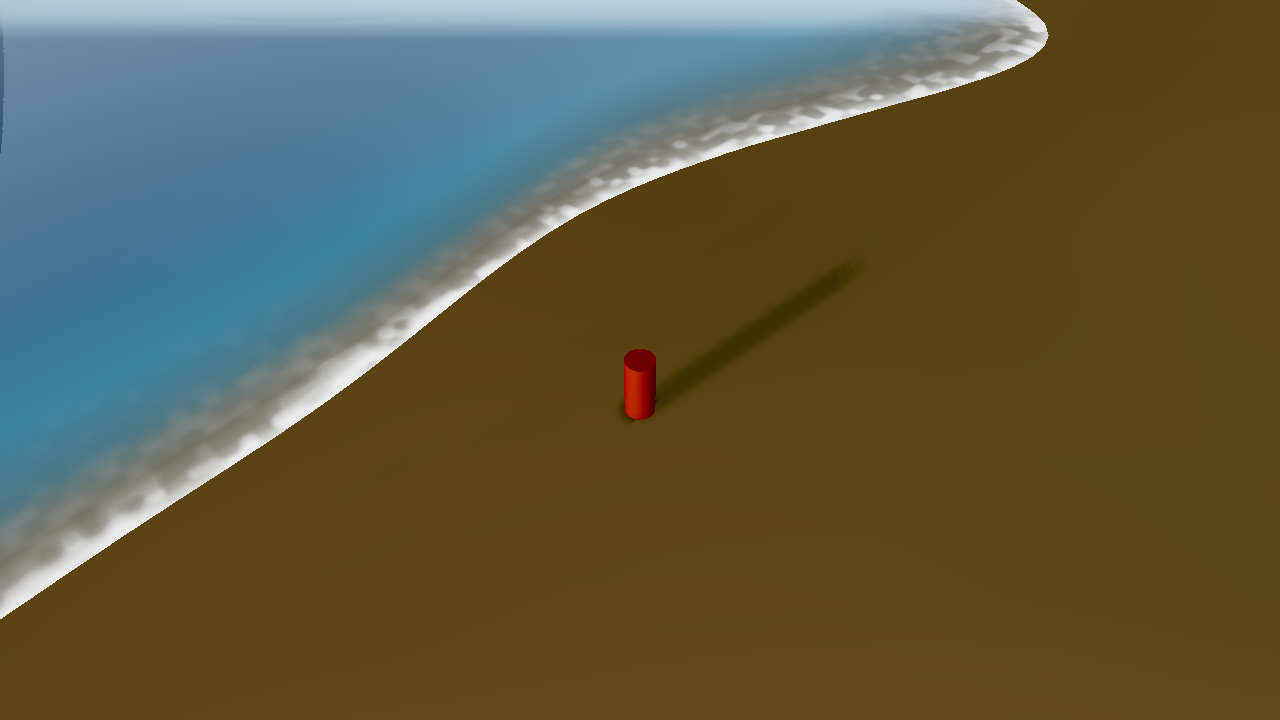
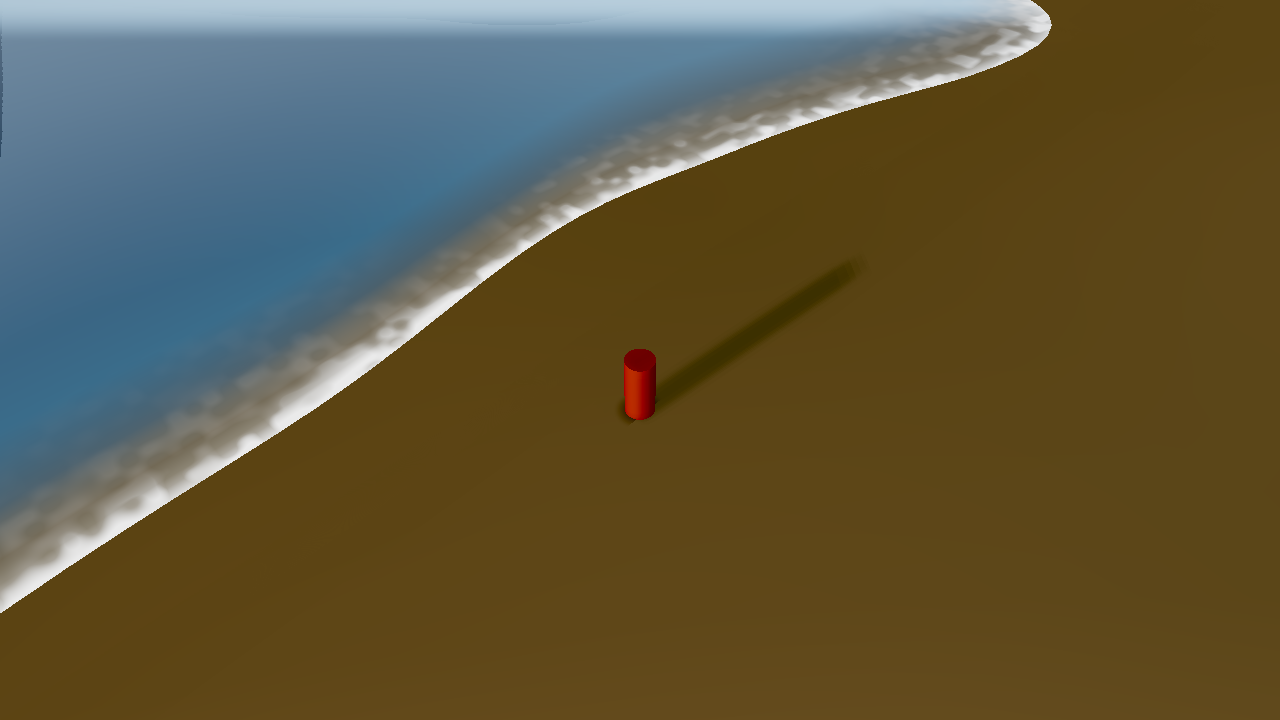
fix(p9): stabilize moon light and disable unstable moon shadow

diff --git a/Assets/Game/Rendering/FenglingShadows.cs b/Assets/Game/Rendering/FenglingShadows.cs
@@ -22,6 +22,7 @@ namespace Fengling.Rendering
         private Matrix4x4 _moonView;
         private Matrix4x4 _moonProj;
         private Light _moon;
+        private Renderer _terrainCaster;
 
         private bool _hasRendered;
         private Vector3 _lastLightDir;
@@ -180,11 +181,29 @@ namespace Fengling.Rendering
                 {
                     splitData = moonSplit,
                 };
+                if (_terrainCaster == null)
+                {
+                    foreach (var r in Object.FindObjectsByType<Renderer>(FindObjectsSortMode.None))
+                    {
+                        if (r.name.Contains("CoastTerrain"))
+                        {
+                            _terrainCaster = r;
+                            break;
+                        }
+                    }
+                }
+                var previousCasting = _terrainCaster != null
+                    ? _terrainCaster.shadowCastingMode
+                    : ShadowCastingMode.On;
+                if (_terrainCaster != null) _terrainCaster.shadowCastingMode = ShadowCastingMode.Off;
+
                 var moonList = context.CreateShadowRendererList(ref moonSettings);
                 var moonDraw = CommandBufferPool.Get("Fengling.MoonShadowDraw");
                 moonDraw.DrawRendererList(moonList);
                 context.ExecuteCommandBuffer(moonDraw);
                 CommandBufferPool.Release(moonDraw);
+
+                if (_terrainCaster != null) _terrainCaster.shadowCastingMode = previousCasting;
 
                 Shader.SetGlobalTexture("_FenglingMoonShadowMap", _moonMap);
                 Shader.SetGlobalMatrix("_FenglingMoonShadowView", _moonView);

diff --git a/Docs/Phase2昼夜执行记录_2026-11-20.md b/Docs/Phase2昼夜执行记录_2026-11-20.md
@@ -474,4 +474,45 @@ Estuary：
 - 水面高光已随太阳强度变化；
 - Preset QA 还没跑 6:00/18:00/0:00 三时段。
 
+---
+
+## 18. 最终 QA 状态
+
+已完成：
+
+- 4 级级联，1024/级
+- 每级 `CreateShadowRendererList` + splitData 裁剪
+- normal bias + 5×5 PCF
+- 级联混合 + 距离淡出
+- 按需更新
+- 太阳/月亮方向、天空、星星、环境光
+- 水面太阳颜色/强度/水色随时间
+- 六套 Preset 接 RTS 相机 + 时间系统
+
+0:00：
+
+![0:00](images/p9_time_00.png)
+
+12:00：
+
+![12:00](images/p9_time_12.png)
+
+18:00：
+
+![18:00](images/p9_time_18.png)
+
+仍未完成：
+
+1. **月亮真实阴影**：moon shadow map 会出现大面积地形自阴影，当前禁用采样，只保留月亮漫反射。
+2. `ShadowDrawingSettings.splitData` 仍是 obsolete，未迁 `CullShadowCasters`。
+3. 六套 Preset 只跑了 8:00 QA，没有逐场景 6/18/0。
+4. Preset 自带 Fish/Plant/Rock 装饰在俯视下呈球形/线状，需要美术确认是否预期。
+5. 水面反射未单独跟随月亮。
+
+结论：
+
+- 太阳阴影链路已经达到可继续迭代的状态；
+- 月亮阴影是当前唯一明确阻塞项；
+- 相机/时间/水面/六套场景已经串起来。
+
 
